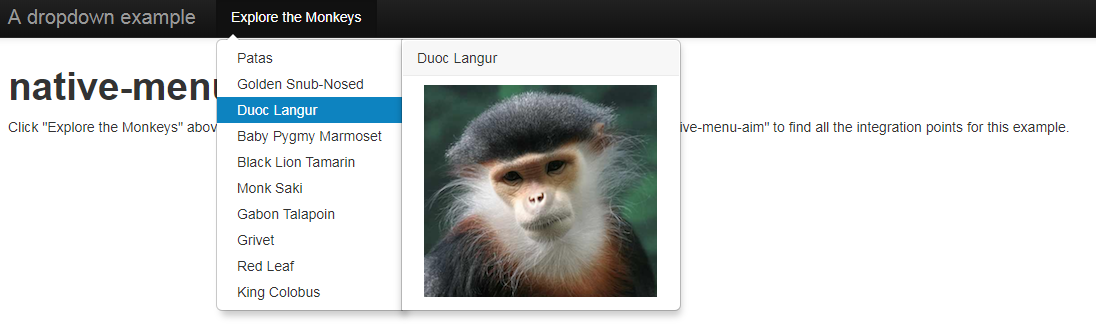
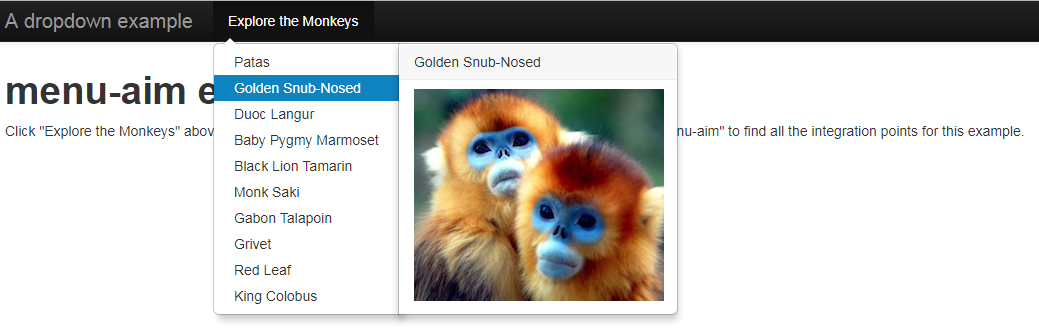
added bower files and upated the package's readme with relevant details

diff --git a/example/example.html b/example/example.html
@@ -3,15 +3,15 @@
 
 <head>
     <!--
-      native-menu-aim: this example uses Twitter's Bootstrap
+      menu-aim: this example uses Twitter's Bootstrap
       (http://twitter.github.com/bootstrap) to setup a clean example page.
 
-      Search for "native-menu-aim" in this page to find the native-menu-aim
+      Search for "menu-aim" in this page to find the menu-aim
       integration examples.
     -->
 
     <meta charset="utf-8">
-    <title>native-menu-aim example</title>
+    <title>menu-aim example</title>
     <meta name="viewport" content="width=device-width, initial-scale=1.0">
     <meta name="description" content="">
     <meta name="author" content="">
@@ -26,10 +26,10 @@
     <link href="css/bootstrap-responsive.css" rel="stylesheet">
 
     <!-- 
-      native-menu-aim: the following styles are used to customize bootstrap's
+      menu-aim: the following styles are used to customize bootstrap's
       dropdowns and popover to play a little nicer w/ this example. They are
-      personal choices and not necessary for your use of native-menu-aim.
-      native-menu-aim is HTML/style-agnostic, it simply fires events when menu
+      personal choices and not necessary for your use of menu-aim.
+      menu-aim is HTML/style-agnostic, it simply fires events when menu
       items should be activated.
       You can choose to do whatever you want w/ those events.
     -->
@@ -97,18 +97,18 @@
                         <li class="active">
                             <a class="dropdown-toggle" data-toggle="dropdown" href="#">Explore the Monkeys</a>
                             <!--
-                  native-menu-aim: this <ul> defines the dropdown main menu and its contents.
+                  menu-aim: this <ul> defines the dropdown main menu and its contents.
                   This is just one of many possible examples for defining the menu's HTML.
-                  native-menu-aim is agnostic to your HTML structure, it only fires events to
+                  menu-aim is agnostic to your HTML structure, it only fires events to
                   be used as you please.
                 -->
                             <ul class="dropdown-menu" role="menu">
                                 <li data-submenu-id="submenu-patas">
                                     <a href="#">Patas</a>
                                     <!--
-                          native-menu-aim: each class="popover" div defines submenu content. There are a million
+                          menu-aim: each class="popover" div defines submenu content. There are a million
                           and one ways to do this, places to structure the HTML, etc. This is just one example.
-                          native-menu-aim is agnostic to your HTML structure, it only fires events to be used
+                          menu-aim is agnostic to your HTML structure, it only fires events to be used
                           as you please.
                         -->
                                     <div id="submenu-patas" class="popover">
@@ -209,14 +209,14 @@
 
     <div class="container">
 
-        <h1>native-menu-aim example</h1>
-        <p>Click "Explore the Monkeys" above to start playing around w/ the dropdown. View source and search for "native-menu-aim"
+        <h1>menu-aim example</h1>
+        <p>Click "Explore the Monkeys" above to start playing around w/ the dropdown. View source and search for "menu-aim"
             to find all the integration points for this example.</p>
 
     </div>
 
     <script src="js/jquery-1.9.1.min.js" type="text/javascript"></script>
-    <script src="../native-menu-aim.js" type="text/javascript"></script>
+    <script src="../menu-aim.js" type="text/javascript"></script>
     <script src="js/bootstrap.min.js" type="text/javascript"></script>
     <script>
         function addClass(el, className) {
@@ -235,16 +235,16 @@
         }
         var _dropdown = document.getElementsByClassName("dropdown-menu");
 
-        // native-menu-aim: <meaningful part of the example>
+        // menu-aim: <meaningful part of the example>
         // Hook up events to be fired on menu row activation.
         _menuAim.menuAim(_dropdown, {
             activate: activateSubmenu,
             deactivate: deactivateSubmenu
         });
-        // native-menu-aim: </meaningful part of the example>
+        // menu-aim: </meaningful part of the example>
 
-        // native-menu-aim: the following JS is used to show and hide the submenu
-        // contents. Again, this can be done in any number of ways. native-menu-aim
+        // menu-aim: the following JS is used to show and hide the submenu
+        // contents. Again, this can be done in any number of ways. menu-aim
         // doesn't care how you do this, it just fires the activate and deactivate
         // events at the right times so you know when to show and hide your submenus.
         function activateSubmenu(row) {
@@ -287,7 +287,7 @@
 
         document.onclick = function () {
             // Simply hide the submenu on any click. Again, this is just a hacked
-            // together menu/submenu structure to show the use of native-menu-aim.
+            // together menu/submenu structure to show the use of menu-aim.
             var popovers = document.getElementsByClassName("popover");
             Array.prototype.forEach.call(popovers, function (popover) {
                 popover.style.display = "none";

diff --git a/dist/menu-aim.min.js b/dist/menu-aim.min.js
@@ -1,0 +1,3 @@
+/*! menu-aim 18-12-2017 */
+
+var _menuAim;_menuAim=_menuAim||function(){function e(e,n){var i=e,o=null,u=null,r=null,l=function(){for(var e=1;e<arguments.length;e++)for(var t in arguments[e])arguments[e].hasOwnProperty(t)&&(arguments[0][t]=arguments[e][t]);return arguments[0]}({rowSelector:"li",submenuSelector:"*",submenuDirection:"right",tolerance:75,enter:function(){},exit:function(){},activate:function(){},deactivate:function(){},exitMenu:function(){}},n),c=function(){r&&clearTimeout(r),l.enter(this),s(this)},f=function(){l.exit(this)},a=function(){m(this)},m=function(e){e!=o&&(o&&l.deactivate(o),l.activate(e),o=e)},s=function(e){var t=v();t?r=setTimeout(function(){s(e)},t):m(e)},v=function(){function e(e,t){return(t.y-e.y)/(t.x-e.x)}if(!o||!function(e,t,n){for(var i=null;e;){if(e.matches(t)){i=e;break}if(n&&e.matches(n))break;e=e.parentElement}return i}(o,l.submenuSelector))return 0;var n=function(e){var t=document.documentElement,n=e.getBoundingClientRect();return{top:n.top+window.pageYOffset-t.clientTop,left:n.left+window.pageXOffset-t.clientLeft}}(i),r={x:n.left,y:n.top-l.tolerance},c={x:n.left+i.offsetWidth,y:r.y},f={x:n.left,y:n.top+i.offsetHeight+l.tolerance},a={x:n.left+i.offsetWidth,y:f.y},m=t[t.length-1],s=t[0];if(!m)return 0;if(s||(s=m),s.x<n.left||s.x>a.x||s.y<n.top||s.y>a.y)return 0;if(u&&m.x==u.x&&m.y==u.y)return 0;var v=c,h=a;"left"==l.submenuDirection?(v=f,h=r):"below"==l.submenuDirection?(v=a,h=f):"above"==l.submenuDirection&&(v=r,h=c);var y=e(m,v),x=e(m,h),p=e(s,v),g=e(s,h);return y<p&&x>g?(u=m,300):(u=null,0)};i.onmouseleave=function(){r&&clearTimeout(r),l.exitMenu(this)&&(o&&l.deactivate(o),o=null)};var h=i.querySelectorAll(l.rowSelector);for(li=0;li<h.length;++li)h[li].onmouseenter=c,h[li].onmouseleave=f,h[li].onclick=a;document.onmousemove=function(e){t.push({x:e.pageX,y:e.pageY}),t.length>3&&t.shift()}}var t=[];return menuAim=function(t,n){Array.prototype.forEach.call(t,function(t){e(t,n)})},{menuAim:menuAim}}();

diff --git a/Gruntfile.js b/Gruntfile.js
@@ -1,0 +1,21 @@
+module.exports = function(grunt) {
+    
+      grunt.initConfig({
+        pkg: grunt.file.readJSON('package.json'),       
+        uglify: {
+          options: {
+            banner: '/*! <%= pkg.name %> <%= grunt.template.today("dd-mm-yyyy") %> */\n'
+          },
+          dist: {
+            files: {
+              'dist/<%= pkg.name %>.min.js': ['<%= pkg.name %>.js']
+            }
+          }
+        }     
+      });
+    
+      grunt.loadNpmTasks('grunt-contrib-uglify');               
+      grunt.registerTask('default', ['uglify']);
+    
+    };
+    
